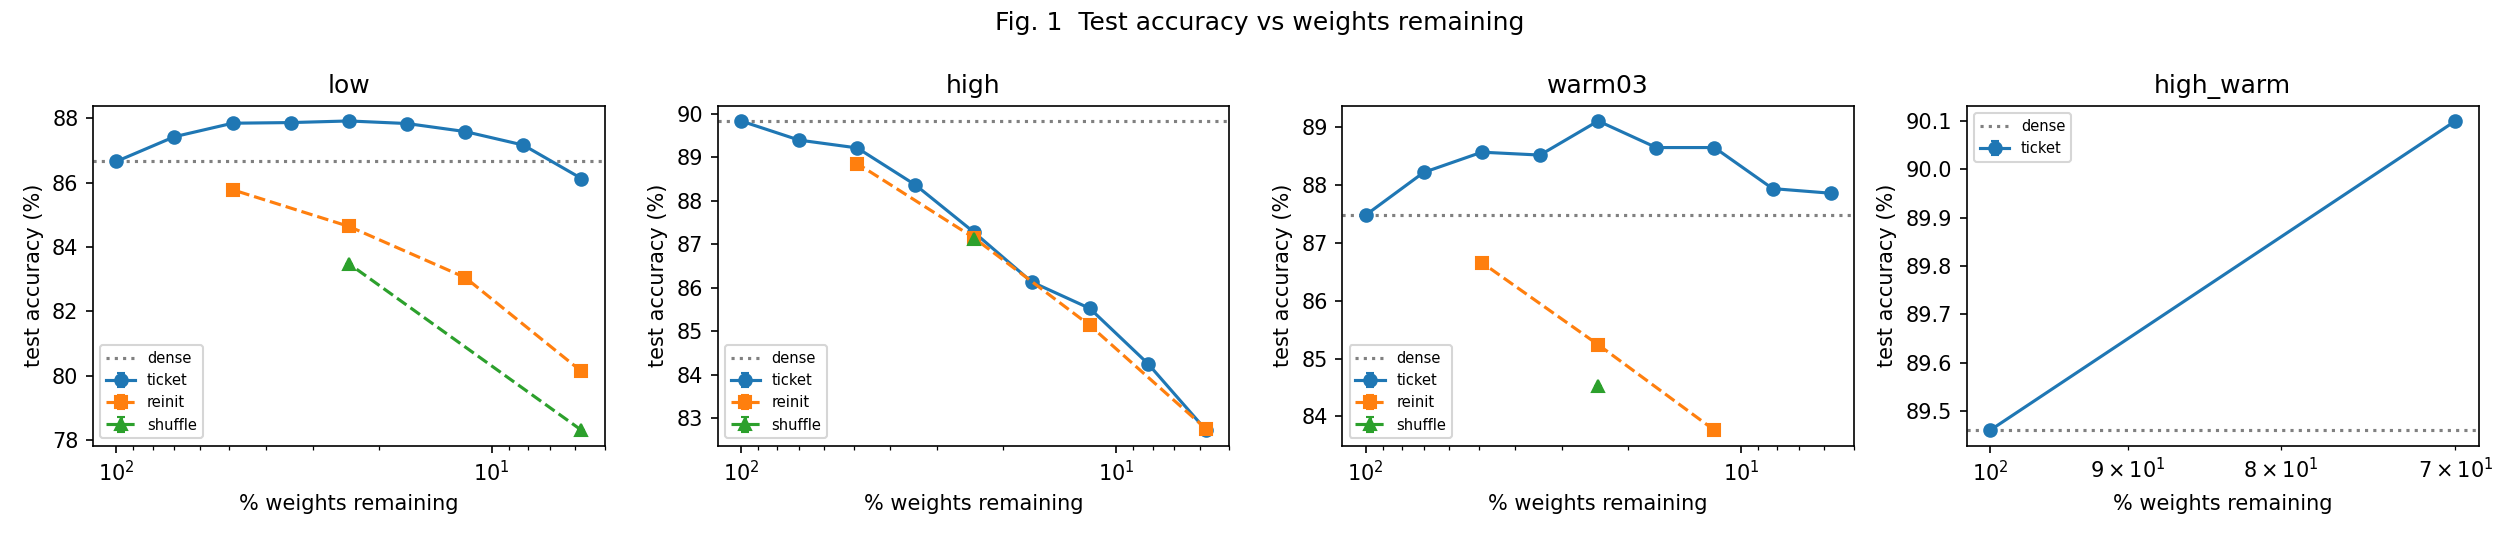
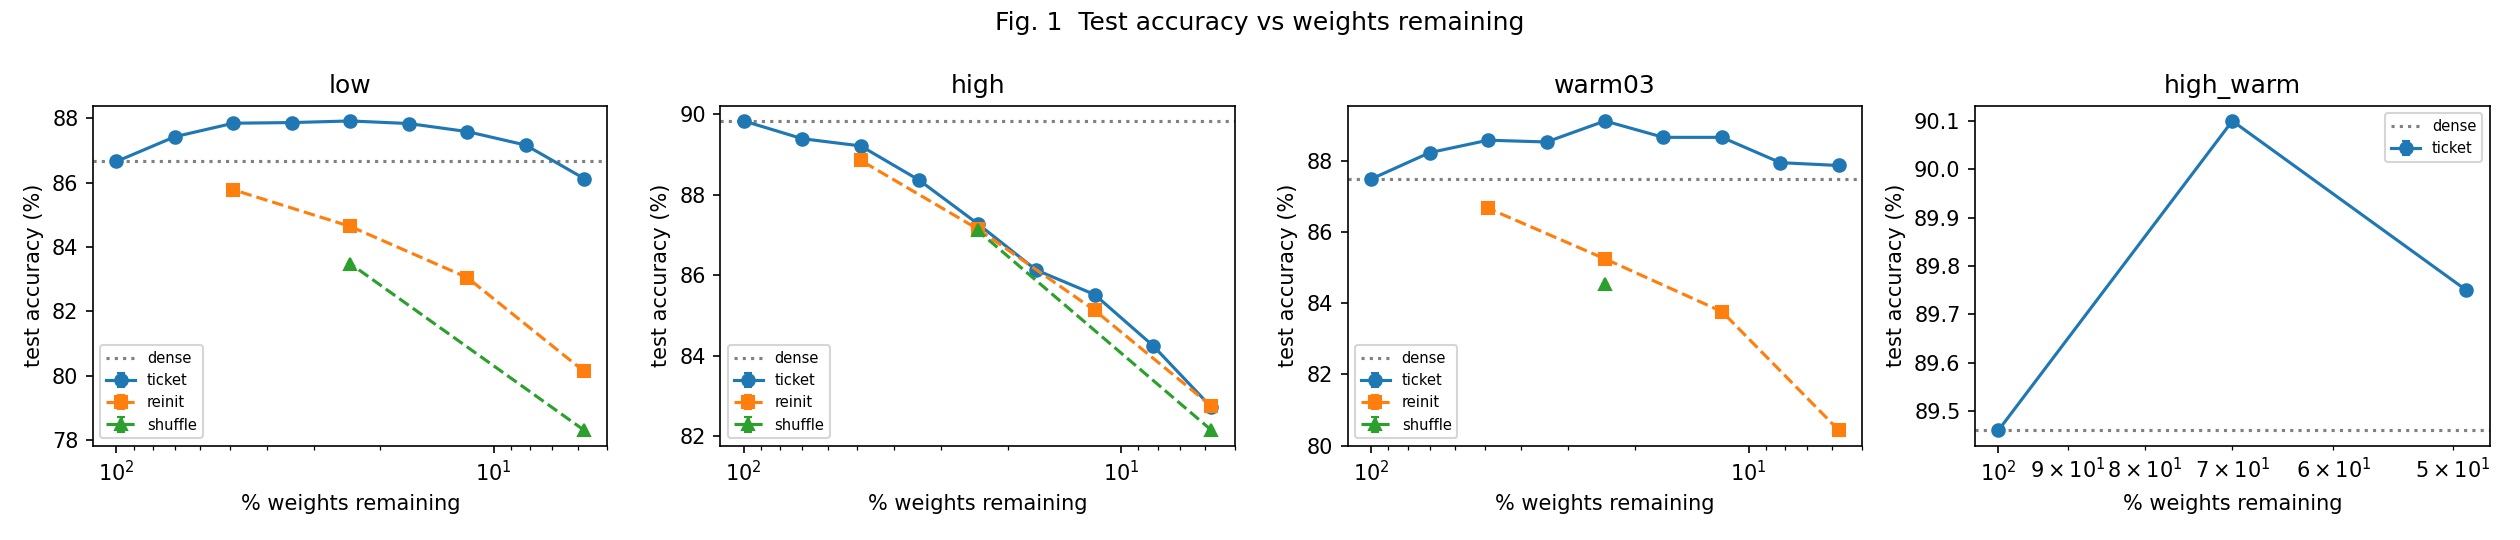
Session 5 05:54: high complete, Gate A final (PASSED), high_warm r1-r2 in NOTES and Methodology

diff --git a/Methodology.md b/Methodology.md
@@ -141,10 +141,10 @@ collapse rather than a systematic ticket deficit (F1, F2).
 | 1 | Code + tests (23 tests pass on the T4) | **done** |
 | 2 | Benchmark / smoke run on the T4: ~9 min per 15k training, 2.46 GB peak VRAM; budget re-derived | **done** (session 2) |
 | 3a | Phase A: `low` seed 0 (15 trainings) | **done** (session 4, 09:05 UTC) |
-| 3b | Phase A: `high`, `warm03` seed 0 (15 each), in parallel with `low` under MPS | high **13/15** (r8 reinit + shuffle left), warm03 **12/15** (r8 ticket + reinit + shuffle left); resumed in session 5 (04:40 UTC, 2026-09-30) |
-| 3b' | Phase A: `high_warm` seed 0 (15) | **1/15** (dense r0 done 05:04 UTC, session 5) |
+| 3b | Phase A: `high`, `warm03` seed 0 (15 each), in parallel with `low` under MPS | high **15/15, done** (05:53 UTC, session 5); warm03 **14/15** (r8 shuffle running) |
+| 3b' | Phase A: `high_warm` seed 0 (15) | **3/15** at 05:54 UTC (session 5); runs alone after warm03 ends |
 | 3c | Conv-4 chain at eta = 0.1 with the full S(t) trajectory | optional; needs `pilot/data/*.gz` on Drive (O8) |
-| 4 | **Gate A:** the ticket beats trained baselines at ≥ 3 sparsities for `low` and `warm03`, and not for `high` (`results/gate_a.md`). If it fails, stop and write up why | **PASSED on seed 0** (low 4/4, warm03 3/3, high 0/3 winning tickets, D12); r8 baselines of high/warm03 and high_warm still to add |
+| 4 | **Gate A:** the ticket beats trained baselines at ≥ 3 sparsities for `low` and `warm03`, and not for `high` (`results/gate_a.md`). If it fails, stop and write up why | **PASSED on seed 0, final for the three gate conditions** (low 4/4, warm03 4/4, high 0/4 winning tickets, D12) |
 | 5 | Phase B: seed 1 of `low`, `high` and `warm03` (error bars) | pending (after Gate A) |
 | 6 | Phase B: H4 (lam selection, then 3 conditions × 3 masks × ticket + shuffle) | pending |
 | 7 | Analysis: `python -m analysis.plots` → summary.csv, figs 1–5, metrics table, gate_a.md | script ready; re-run every 15 min by the autosave |
@@ -256,25 +256,27 @@ to 10k before any condition or seed is cut.
   (the `high` dense value is 0.226), and report step 0 separately. *Adopted in session 4 (section 9); the table above and fig. 3 use it.*
 - **Weight correlation.** Dense R_0.2 is 0.64 (low), 0.56 (warm03) and 0.25 (high; chance is 0.2), which agrees with Liu et al. A large LR
   decorrelates theta_T from theta_0, and warmup keeps part of the correlation.
-- **Ticket accuracy vs dense, by sparsity (seed 0, as of 05:05 UTC, 2026-09-30):**
+- **Ticket accuracy vs dense, by sparsity (seed 0, as of 05:54 UTC, 2026-09-30):**
 
-  | % remaining | low (dense 86.66%) | high (dense 89.83%) | warm03 (dense 87.48%) |
-  |---|---|---|---|
-  | 70.1 | +0.77 | −0.44 | +0.74 |
-  | 49.1 | +1.19 | −0.62 | +1.09 |
-  | 34.5 | +1.21 | −1.47 | +1.04 |
-  | 24.2 | +1.26 | −2.55 | +1.63 |
-  | 17.0 | +1.18 | −3.70 | +1.17 |
-  | 12.0 | +0.93 | −4.31 | +1.17 |
-  | 8.4 | +0.51 | −5.58 | +0.46 |
-  | 6.0 | −0.53 | −7.11 | |
+  | % remaining | low (dense 86.66%) | high (dense 89.83%) | warm03 (dense 87.48%) | high_warm (dense 89.46%) |
+  |---|---|---|---|---|
+  | 70.1 | +0.77 | −0.44 | +0.74 | +0.64 |
+  | 49.1 | +1.19 | −0.62 | +1.09 | +0.29 |
+  | 34.5 | +1.21 | −1.47 | +1.04 | |
+  | 24.2 | +1.26 | −2.55 | +1.63 | |
+  | 17.0 | +1.18 | −3.70 | +1.17 | |
+  | 12.0 | +0.93 | −4.31 | +1.17 | |
+  | 8.4 | +0.51 | −5.58 | +0.46 | |
+  | 6.0 | −0.53 | −7.11 | +0.38 |
 
-  Low-LR and warmup tickets stay above dense down to 8.4% (both low and warm03; warm03's margin shrinks from +1.17 to +0.46 pp at 8.4%).
+  warm03 tickets stay above dense at every sparsity, down to 6.0% (+0.38 pp); low drops below at 6.0% (−0.53 pp).
+  The first high_warm tickets are above their own dense network (+0.64, +0.29 pp), unlike high.
   The high-LR ticket loses accuracy steadily with sparsity, faster at the end (−4.31 → −5.58 → −7.11 pp from 12% to 6%).
 - **Ticket advantage over the best trained baseline (pp):** low +2.07 (49.1%), +3.28 (24.2%), +4.54 (12.0%), +6.00 (6.0%), growing
-  monotonically with sparsity; warm03 +1.91 (49.1%), +3.87 (24.2%), +4.89 (12.0%); high +0.36 (49.1%), +0.13 (24.2%), +0.39 (12.0%).
+  monotonically with sparsity; warm03 +1.91 (49.1%), +3.87 (24.2%), +4.89 (12.0%), **+7.43 (6.0%)**; high +0.36 (49.1%), +0.13 (24.2%), +0.39 (12.0%), **−0.03 (6.0%)**
+  (ticket 82.72%, reinit 82.75%, shuffle 82.15%: at 6% the high ticket is no better than a random reinit).
   The best baseline was always the reinit (shuffle is lower). The low r8 ticket is 0.53 pp below dense, just outside the tolerance.
-- **Gate A reading (end of session 4): PASSED on seed 0.** low passes (4/4) and warm03 passes (3/3). high has three positive advantages,
+- **Gate A (final for seed 0, session 5): PASSED**: low 4/4, warm03 4/4, high 0/4 winning. Reading at the end of session 4: low passes (4/4) and warm03 passes (3/3). high has three positive advantages,
   so a literal "no positive advantage at high" criterion would fail. They are 10–30x smaller than low/warm03 and likely within
   seed noise (one seed). By the section-5 *winning-ticket* definition, which also requires ticket acc ≥ dense − 0.5 pp, high has **no**
   winning ticket at either point (−0.62 and −2.55 pp vs dense). **Decision (D12): Gate A's `high` criterion uses the winning-ticket

diff --git a/NOTES.md b/NOTES.md
@@ -8,8 +8,8 @@ measured and what is still open. **Update it at the end of every work session.**
 
 ## 1. Current status (2026-09-29, session 4, Colab T4)
 
-- **SESSION 5 (2026-09-30, from 04:38 UTC): Phase A resumed; 41/60 done at 05:05 UTC.** high, warm03 and high_warm run under MPS
-  with the watcher. Left: high 2 (r8 reinit + shuffle), warm03 3 (r8 ticket + reinit + shuffle), high_warm 14. Phase A should end ≈ 07:50 UTC.
+- **SESSION 5 (2026-09-30, from 04:38 UTC): Phase A resumed; 47/60 done at 05:54 UTC, Gate A final: PASSED.** high, warm03 and high_warm run under MPS
+  with the watcher. Left: warm03 1 (r8 shuffle), high_warm 12. high is complete. Phase A should end ≈ 08:00 UTC.
   **Budget (user, session 5): 20 h of Colab runtime left** → `src/utils.py`: `RUNTIME_USED_BEFORE_H = 10.0`, `RUNTIME_SINCE = 2026-09-30T05:02:00`.
   (Chains started before that still print the old figures in their COST ESTIMATE lines.) Remaining plan ≈ 3 h Phase A + ≈ 9 h Phase B
   ≈ 12 h, leaving ≈ 8 h reserve. See the section 9 log for progress. The session-4 notes below are kept for reference.
@@ -461,3 +461,13 @@ Reminders:
       Sharpening during warmup stops earlier than in warm03: lambda_max 25.5 → 36.6 at step 500, then falls as the LR passes ~0.01
       (11.3 at 2k, 6.1 at 3k). warm03 sharpened to 52.7 at 2k. In both runs S peaks at ≈ 0.08–0.09 when lambda_max turns down.
     - `Methodology.md` updated (step statuses, table, accuracy-vs-dense table, high_warm and sparse-high sharpness notes).
+  - **05:54 UTC check (6 more results):**
+    - **high is complete (15/15).** r8 (6.0%): ticket 82.72%, reinit 82.75%, shuffle 82.15% → **advantage −0.03 pp**; high ends with 0/4 winning
+      tickets. At 6% the high ticket is no better than a random reinit.
+    - **warm03 r8 (6.0%) ticket 87.86% (+0.38 pp vs dense), reinit 80.43% → +7.43 pp**, its 4th win. warm03 tickets beat dense at every sparsity.
+      warm03 r8 shuffle is running (warm03's last training).
+    - **Gate A final for seed 0: PASSED** (low 4/4, warm03 4/4, high 0/4 winning). `results/gate_a.md` regenerated.
+    - **high_warm r1 (70.1%) 90.10% (+0.64 pp vs its dense 89.46%)**, r2 (49.1%) 89.75% (+0.29 pp), max S 0.069 / 0.072. The best accuracy
+      in the study so far. Unlike high, the warmup tickets at eta = 0.1 are above dense (H3 direction). r2 reinit running.
+    - Runtime used 10.87 h (calibrated). **Forecast:** warm03 ends ≈ 06:20; high_warm then runs alone, 11 trainings × ~9 min → **Phase A done ≈ 08:00 UTC,
+      ≈ 12.9 h used**. Phase B (seed 1 low/high/warm03 ≈ 6.3 h under MPS + H4 ≈ 3 h) → ≈ 22 h used, ≈ 8 h reserve.

diff --git a/results/gate_a.md b/results/gate_a.md
@@ -1,7 +1,7 @@
 # Gate A (H1 replication)
 
 - **low**: ticket beats the best trained baseline at 4/4 sparsities (49.0%, 24.0%, 11.8%, 5.8%); expected >= 3 -> PASS
-- **warm03**: ticket beats the best trained baseline at 3/3 sparsities (49.0%, 24.0%, 11.8%); expected >= 3 -> PASS
+- **warm03**: ticket beats the best trained baseline at 4/4 sparsities (49.0%, 24.0%, 11.8%, 5.8%); expected >= 3 -> PASS
 - **high**: winning ticket (advantage > 0 and acc >= dense - 0.5 pp) at 0/4 sparsities (); expected none -> PASS
   (positive advantage without a winning ticket at 3/4: 49.0% +0.36 pp, ticket -0.62 pp vs dense, 24.0% +0.13 pp, ticket -2.55 pp vs dense, 11.8% +0.39 pp, ticket -4.31 pp vs dense)
 
